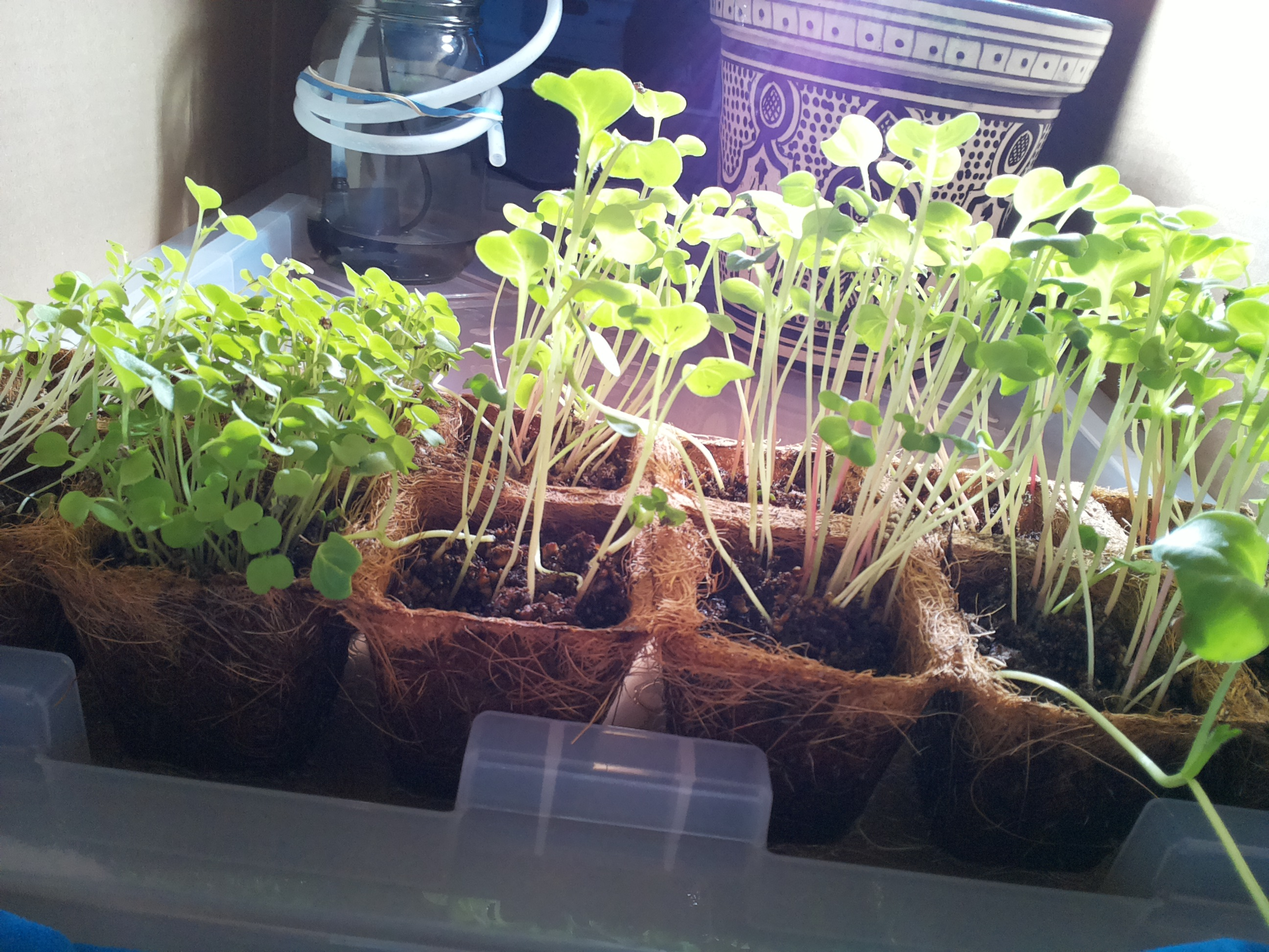
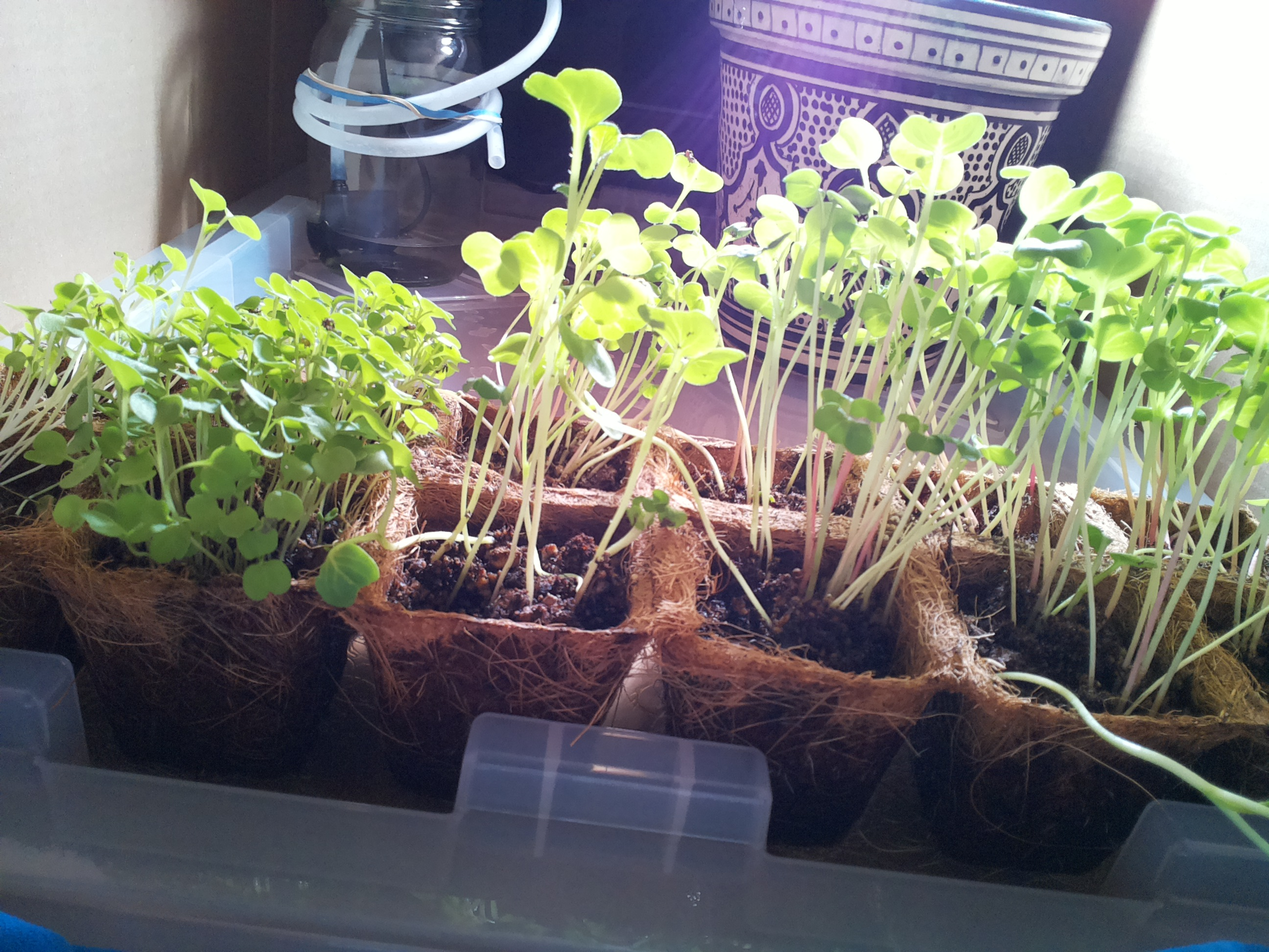
mirror sync 2026-09-05 19:30

diff --git a/home/bubbles/farmer-claude/JOURNAL.md b/home/bubbles/farmer-claude/JOURNAL.md
@@ -282,3 +282,11 @@
 - Lamp: on — correct for photoperiod.
 - Watering: none (observe-only per standing order 2); 4s of 60s daily cap used. Evening 19:22 pulse planned unless surfaces look dark.
 - No changes to standing orders.
+
+### 2026-09-05 19:22 — evening check-in (cron)
+- Photo: seedlings vigorous in all 12 cells (day 12) — tall, leggy, cotyledons broad, turgid, and green; true leaves developing. No wilting, mold, pests, or tipping. Tube in place beside the jar over the lid.
+- Jar: zoomed photo shows dark water still high in the glass — refill holding, pump body well covered.
+- Soil: mixed — dark damp centers with perlite showing, drier crumbly spots elsewhere; coir walls pale. Not uniformly dark → pulse warranted.
+- Lamp: on — correct for photoperiod.
+- Watering: 4s pulse per standing order 2 (8s of 60s daily cap used; water.py OK, pump plug verified OFF after).
+- No changes to standing orders. Next: 07:12 pulse unless surfaces look dark.
